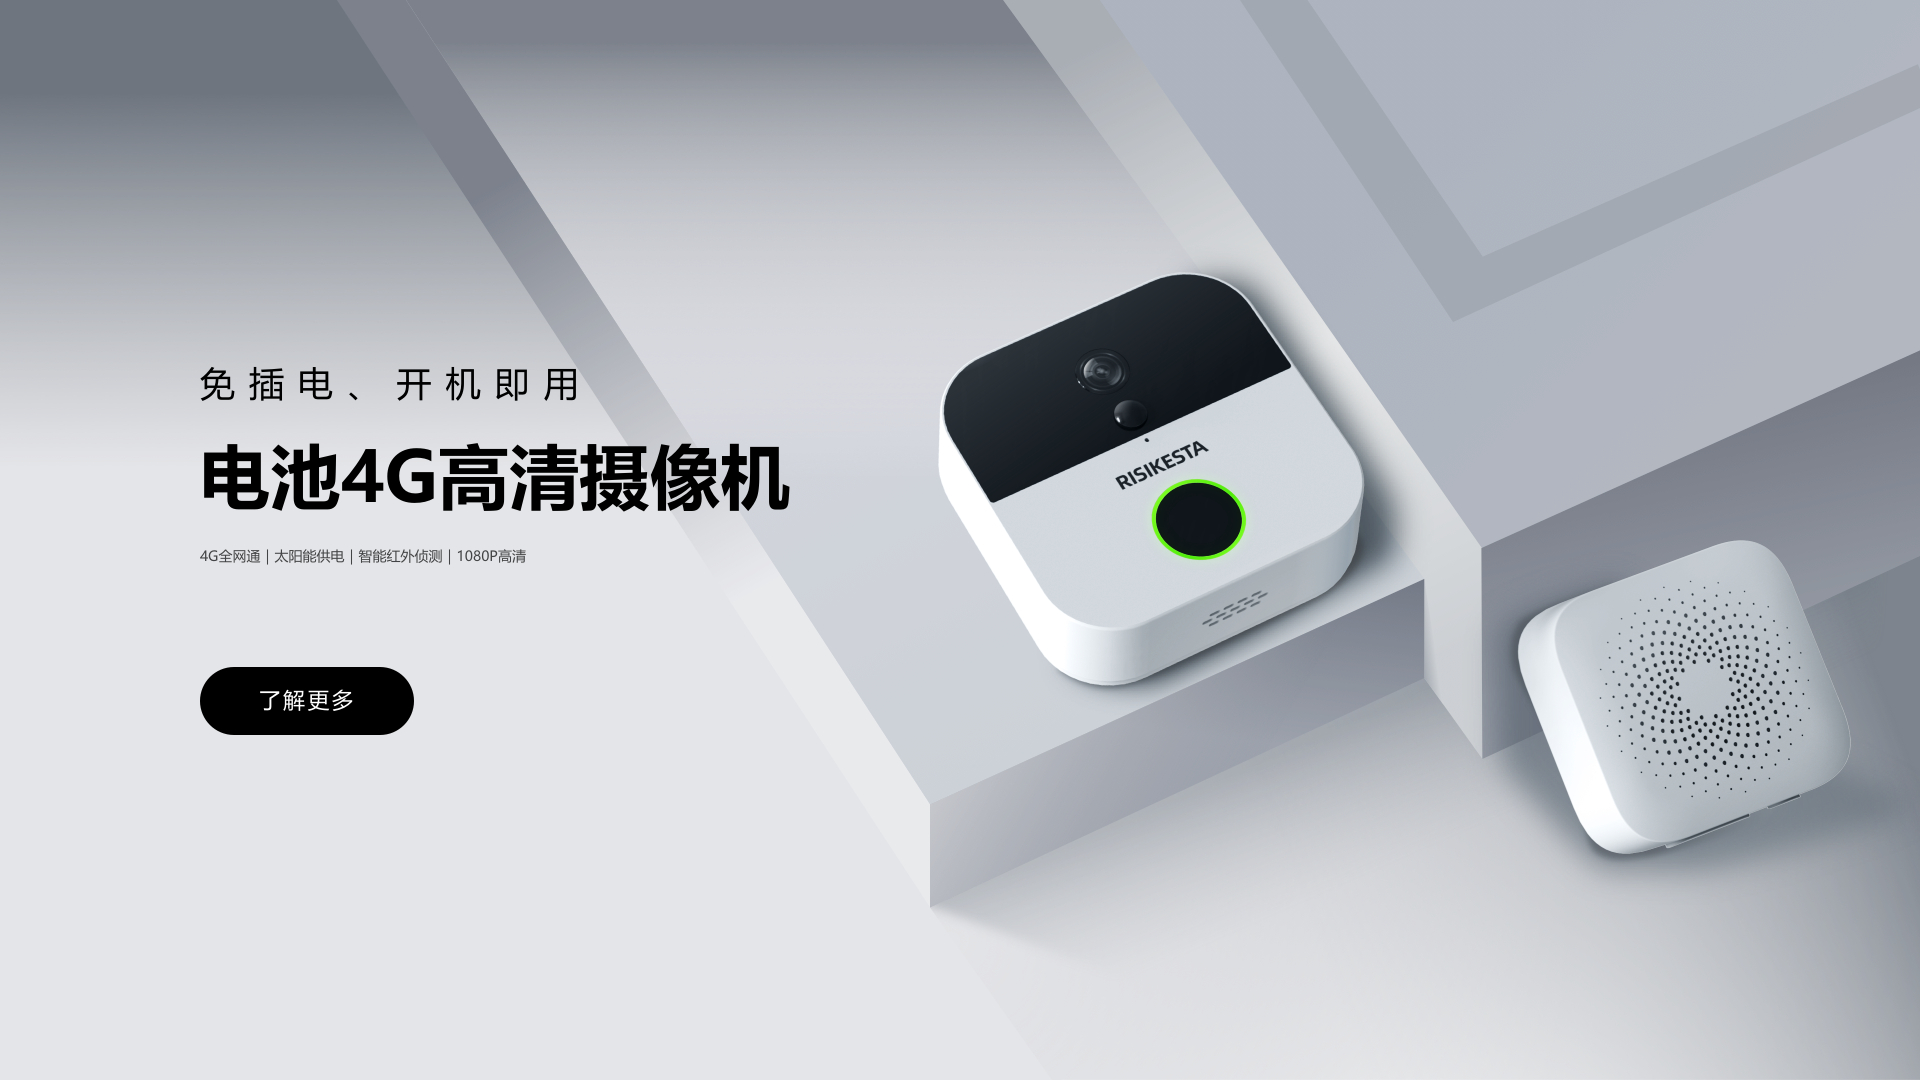
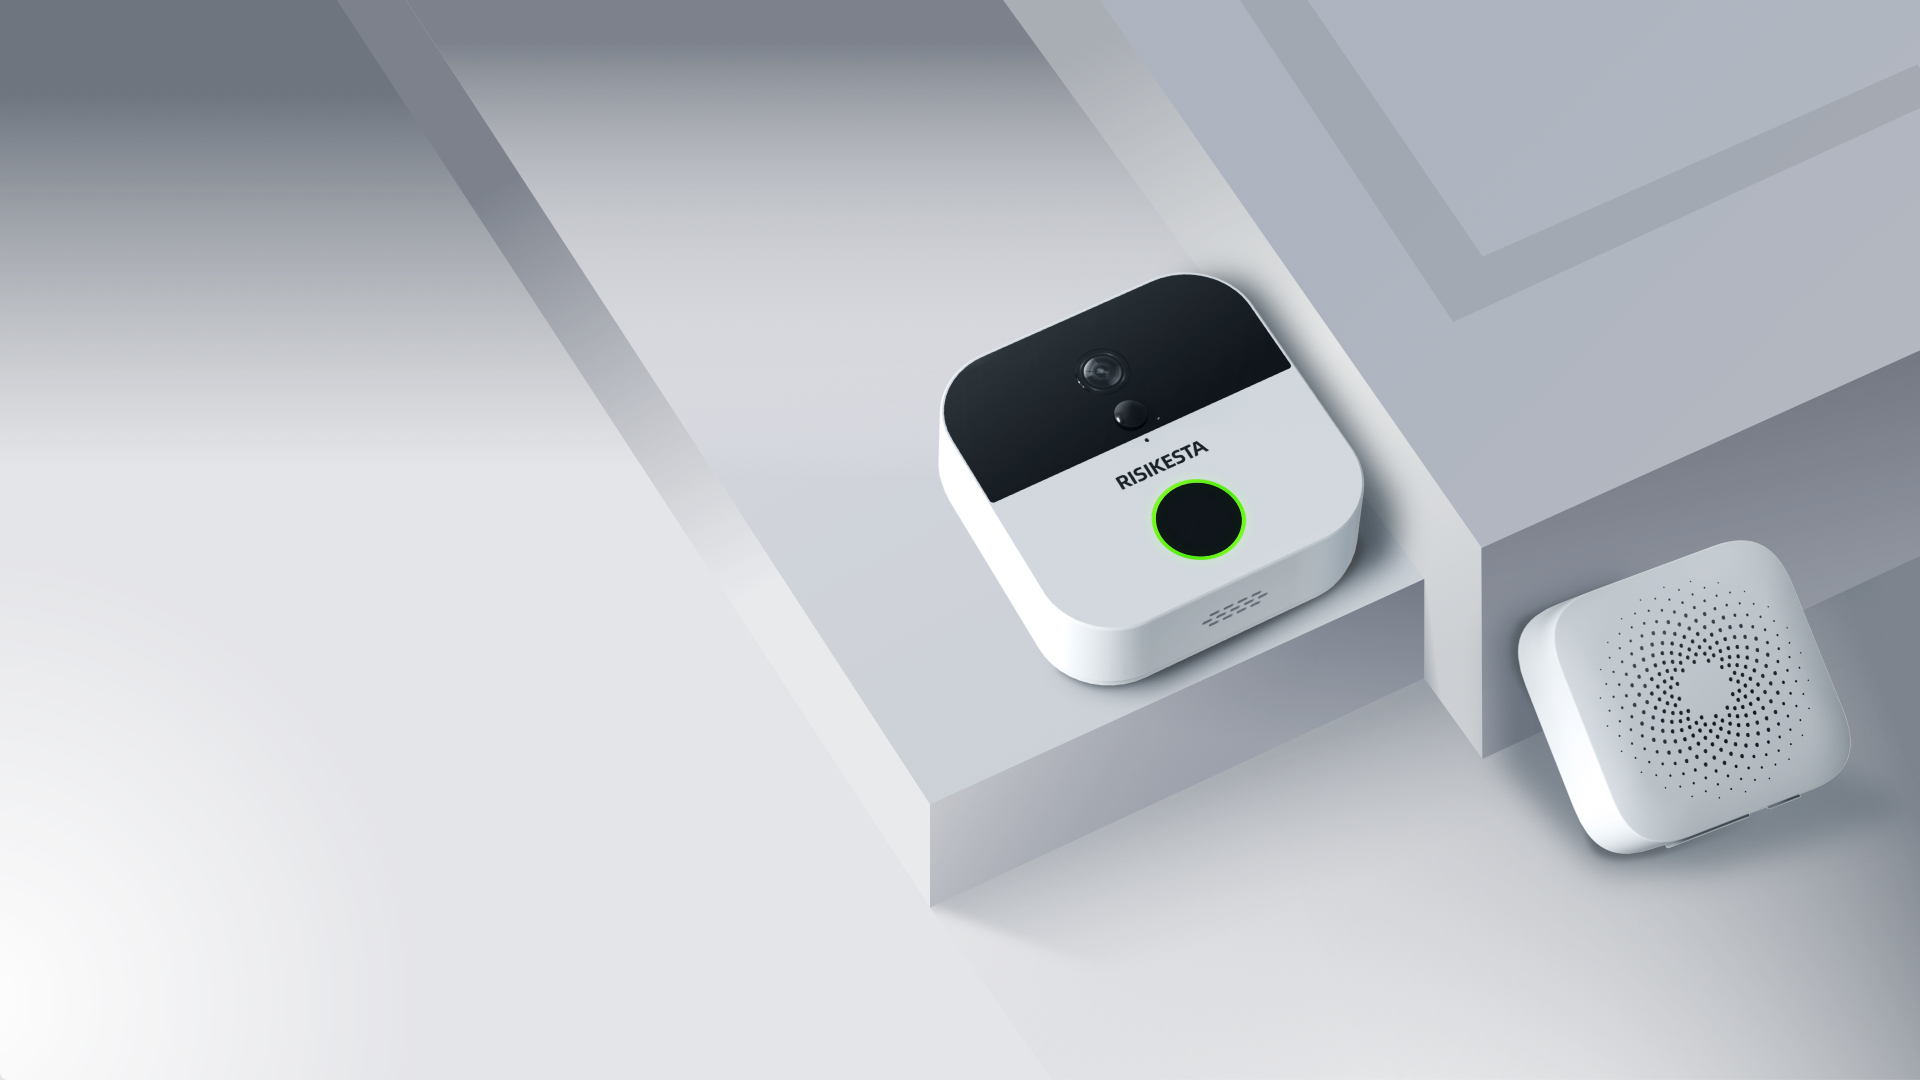
修改

Changed region(s): [[0.0938, 0.3972, 0.4062, 0.5194], [0.0938, 0.6111, 0.2188, 0.7028], [0.0938, 0.3361, 0.3125, 0.3667]]

diff --git a/src/mock/productPageData.ts b/src/mock/productPageData.ts
@@ -36,6 +36,8 @@ import product11 from '@/assets/product/product11.jpg'
 import product12 from '@/assets/product/product12.jpg'
 import product13 from '@/assets/product/product13.jpg'
 import product14 from '@/assets/product/product14.jpg'
+import product15 from '@/assets/product/product15.jpg'
+import product16 from '@/assets/product/product16.jpg'
 
 
 export const productData: productPageType = {
@@ -80,13 +82,13 @@ export const productData: productPageType = {
             name: "电池4G高清摄像机",
             desc: '免插电、开机即用',
             id: 1,
-            img: product4
+            img: product15
         },
         {
             name: "电池4G高清摄像机",
             desc: '免插电、开机即用',
             id: 1,
-            img: product7
+            img: product16
         },
     ],
     conventionData: [

diff --git a/src/mock/homeData.ts b/src/mock/homeData.ts
@@ -39,7 +39,7 @@ import banner1 from '@/assets/img/banner1.jpg'
 import banner2 from '@/assets/img/banner2.jpg'
 import banner3 from '@/assets/img/banner3.jpg'
 import banner4 from '@/assets/img/banner4.jpg'
-
+import banner5 from '@/assets/img/banner5.jpg'
 
 
 
@@ -70,6 +70,13 @@ export const homeData: homeType = {
         },
         {
             img: banner4,
+            subTitle: '免插电、开机即用',
+            title: '电池4G高清摄像机',
+            desc: '4G全网通｜太阳能供电｜智能红外侦测｜1080P高清',
+            id: 1,
+        },
+        {
+            img: banner5,
             subTitle: '免插电、开机即用',
             title: '电池4G高清摄像机',
             desc: '4G全网通｜太阳能供电｜智能红外侦测｜1080P高清',
